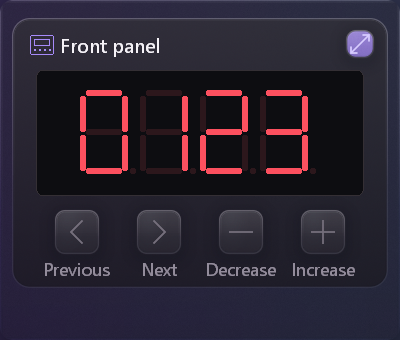
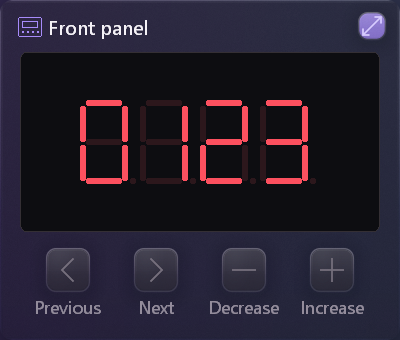
fix(desktop): unify compact front panel with acrylic window

diff --git a/Tools/NativeDesktop/internal/ui/controller_dashboard_windows.go b/Tools/NativeDesktop/internal/ui/controller_dashboard_windows.go
@@ -100,10 +100,13 @@ func (s *Shell) paintController(canvas *walk.Canvas, bounds walk.Rectangle, colo
 	margin := 24
 	compact := s.Config().UI.ViewMode == config.ViewCompact && !s.controllerPreferences && !s.controllerChannels
 	if compact {
-		margin = 12
+		margin = 0
 	}
 	width := bounds.Width - margin*2
 	x, y := bounds.X+margin, bounds.Y+18
+	if compact {
+		y = bounds.Y
+	}
 	if !compact {
 		// Brand and lifecycle status occupy one aligned header; identity is not a
 		// repeated all-caps section title. Windows owns the title-bar controls.
@@ -145,8 +148,16 @@ func (s *Shell) paintController(canvas *walk.Canvas, bounds walk.Rectangle, colo
 		width = (fullWidth - 16) * 3 / 5
 	}
 	panelHeight := 270
+	if compact {
+		panelHeight = bounds.Height
+	}
 	panel := walk.Rectangle{X: x, Y: y, Width: width, Height: panelHeight}
-	s.controllerCard(canvas, panel, colors)
+	// In compact mode the acrylic HWND is the instrument enclosure. Registering
+	// a dashboard card here adds a second rounded material/border in the glass
+	// compositor (and an inset solid panel in the fallback renderer).
+	if !compact {
+		s.controllerCard(canvas, panel, colors)
+	}
 	s.drawControllerPanelIcon(canvas, walk.Rectangle{X: x + 18, Y: y + 17, Width: 24, Height: 20}, colors.accent)
 	s.controllerText(canvas, "Front panel", s.bodyFont, colors.text, walk.Rectangle{X: x + 48, Y: y + 13, Width: width - 80, Height: 26}, false)
 	if s.controllerWidgetID == "" {
@@ -157,6 +168,11 @@ func (s *Shell) paintController(canvas *walk.Canvas, bounds walk.Rectangle, colo
 		s.controllerControl(canvas, walk.Rectangle{X: x + width - 42, Y: y + 12, Width: 28, Height: 28}, actionCompact, glyph, "", true, compact, colors)
 	}
 	screen := walk.Rectangle{X: x + 24, Y: y + 52, Width: width - 48, Height: 126}
+	keyY, labelY := y+192, y+240
+	if compact {
+		screen = walk.Rectangle{X: x + 20, Y: y + 52, Width: width - 40, Height: panelHeight - 160}
+		keyY, labelY = y+panelHeight-92, y+panelHeight-44
+	}
 	controllerFill(canvas, screen, walk.RGB(13, 13, 17), 12)
 	pen, err := walk.NewCosmeticPen(walk.PenSolid, walk.RGB(52, 47, 52))
 	if err == nil {
@@ -165,21 +181,25 @@ func (s *Shell) paintController(canvas *walk.Canvas, bounds walk.Rectangle, colo
 	}
 	digitWidth := minInt(60, (screen.Width-56)/4)
 	left := screen.X + (screen.Width-digitWidth*4)/2
+	digitY := screen.Y + 20
+	if compact {
+		digitY = screen.Y + (screen.Height-84)/2
+	}
 	for i, raw := range state.Segments {
 		if !state.HavePanel {
 			raw = 0
 		}
-		s.drawControllerDigit(canvas, walk.Rectangle{X: left + i*digitWidth, Y: screen.Y + 20, Width: digitWidth - 12, Height: 84}, i, raw, state.Brightness, colors)
+		s.drawControllerDigit(canvas, walk.Rectangle{X: left + i*digitWidth, Y: digitY, Width: digitWidth - 12, Height: 84}, i, raw, state.Brightness, colors)
 	}
 	labels := []string{"Previous", "Next", "Decrease", "Increase"}
 	glyphs := []string{"\uE76B", "\uE76C", "\uE738", "\uE710"}
 	cell := (width - 48) / 4
 	for i, label := range labels {
 		center := x + 24 + i*cell + cell/2
-		key := walk.Rectangle{X: center - 22, Y: y + 192, Width: 44, Height: 44}
+		key := walk.Rectangle{X: center - 22, Y: keyY, Width: 44, Height: 44}
 		enabled := state.Connected && state.CanNavigate && !s.controllerBusy && !state.Busy
 		s.controllerControl(canvas, key, actionKey1+actionID(i), glyphs[i], "", enabled, state.PressedKeys&(1<<uint(i)) != 0, colors)
-		s.controllerText(canvas, label, s.captionFont, colors.secondary, walk.Rectangle{X: center - cell/2, Y: y + 240, Width: cell, Height: 20}, true)
+		s.controllerText(canvas, label, s.captionFont, colors.secondary, walk.Rectangle{X: center - cell/2, Y: labelY, Width: cell, Height: 20}, true)
 	}
 	if compact {
 		return nil

diff --git a/Tools/NativeDesktop/internal/ui/controller_widgets_windows_test.go b/Tools/NativeDesktop/internal/ui/controller_widgets_windows_test.go
@@ -54,6 +54,81 @@ func TestControllerWindowsSnapToPeers(t *testing.T) {
 	}
 }
 
+func TestControllerCompactUsesWindowSurface(t *testing.T) {
+	s, cfg := newControllerWindowFixture(t)
+	cfg.UI.ViewMode = config.ViewCompact
+	cfg.UI.WindowBounds = config.WindowBounds{X: 80, Y: 80, Width: 400, Height: 340}
+	s.mw.Show()
+	for _, backend := range []string{"auto", "legacy"} {
+		for _, glass := range []bool{true, false} {
+			for _, theme := range []string{"dark", "light"} {
+				for _, title := range []string{config.TitleBarNone, config.TitleBarCustom} {
+					cfg.UI.RenderBackend, cfg.UI.LayeredForeground, cfg.UI.Theme = backend, glass, theme
+					cfg.UI.TitleBarMode, cfg.UI.ControllerChrome = title, "windows"
+					s.cfg = cfg
+					s.applyConfigUI(cfg, false)
+					pumpControllerFixture(s)
+					canvas, err := s.surface.CreateCanvas()
+					if err != nil {
+						t.Fatal(err)
+					}
+					paint := func() {
+						t.Helper()
+						if err := s.paint(canvas, s.surface.ClientBoundsPixels()); err != nil {
+							t.Fatal(err)
+						}
+						if len(s.layout.controllerCards) != 0 {
+							t.Fatalf("inset compact enclosure: backend=%s glass=%v theme=%s title=%s", backend, glass, theme, title)
+						}
+					}
+					paint()
+					keys := map[actionID]walk.Rectangle{}
+					bounds := s.surface.ClientBoundsPixels()
+					for _, button := range s.layout.controllerButtons {
+						if button.action >= actionKey1 && button.action <= actionKey4 {
+							keys[button.action] = button.rect
+							if button.rect.Width != 44 || button.rect.Height != 44 || button.rect.Y+button.rect.Height+24 > bounds.Height {
+								t.Fatalf("compact key/label clipped or shrunk: %+v in %+v", button.rect, bounds)
+							}
+						}
+					}
+					if len(keys) != 4 {
+						t.Fatal("compact mode lost a physical key")
+					}
+					s.hoverLevels[actionKey1], s.pressLevels[actionKey1] = 1, 1
+					win.SendMessage(s.mw.Handle(), wmNCActivate, 0, 0)
+					pumpControllerFixture(s)
+					paint()
+					for _, button := range s.layout.controllerButtons {
+						if rect, ok := keys[button.action]; ok && rect != button.rect {
+							t.Fatal("hover/press/deactivation moved a compact control")
+						}
+					}
+					s.controllerWidgetID = "front-panel"
+					paint() // Detached front panels share the same single-surface layout.
+					s.controllerWidgetID = ""
+					canvas.Dispose()
+				}
+			}
+		}
+	}
+	cfg.UI.ViewMode = config.ViewDashboard
+	s.cfg = cfg
+	s.applyConfigUI(cfg, false)
+	pumpControllerFixture(s)
+	canvas, err := s.surface.CreateCanvas()
+	if err != nil {
+		t.Fatal(err)
+	}
+	defer canvas.Dispose()
+	if err := s.paint(canvas, s.surface.ClientBoundsPixels()); err != nil {
+		t.Fatal(err)
+	}
+	if len(s.layout.controllerCards) == 0 {
+		t.Fatal("dashboard lost its grouped cards")
+	}
+}
+
 func TestControllerWidgetWindowsLifecycle(t *testing.T) {
 	s, cfg := newControllerWindowFixture(t)
 	cfg.UI.ViewMode = config.ViewDashboard
@@ -121,8 +196,8 @@ func TestControllerWidgetWindowsLifecycle(t *testing.T) {
 	if err := s.paint(canvas, s.surface.ClientBoundsPixels()); err != nil {
 		t.Fatal(err)
 	}
-	if len(s.layout.controllerCards) != 1 {
-		t.Fatal("compact mode contains non-front-panel cards")
+	if len(s.layout.controllerCards) != 0 {
+		t.Fatal("compact mode must use the window surface, not an inset card")
 	}
 	for _, b := range s.layout.controllerButtons {
 		if (b.action < actionKey1 || b.action > actionKey4) && b.action != actionCompact {
